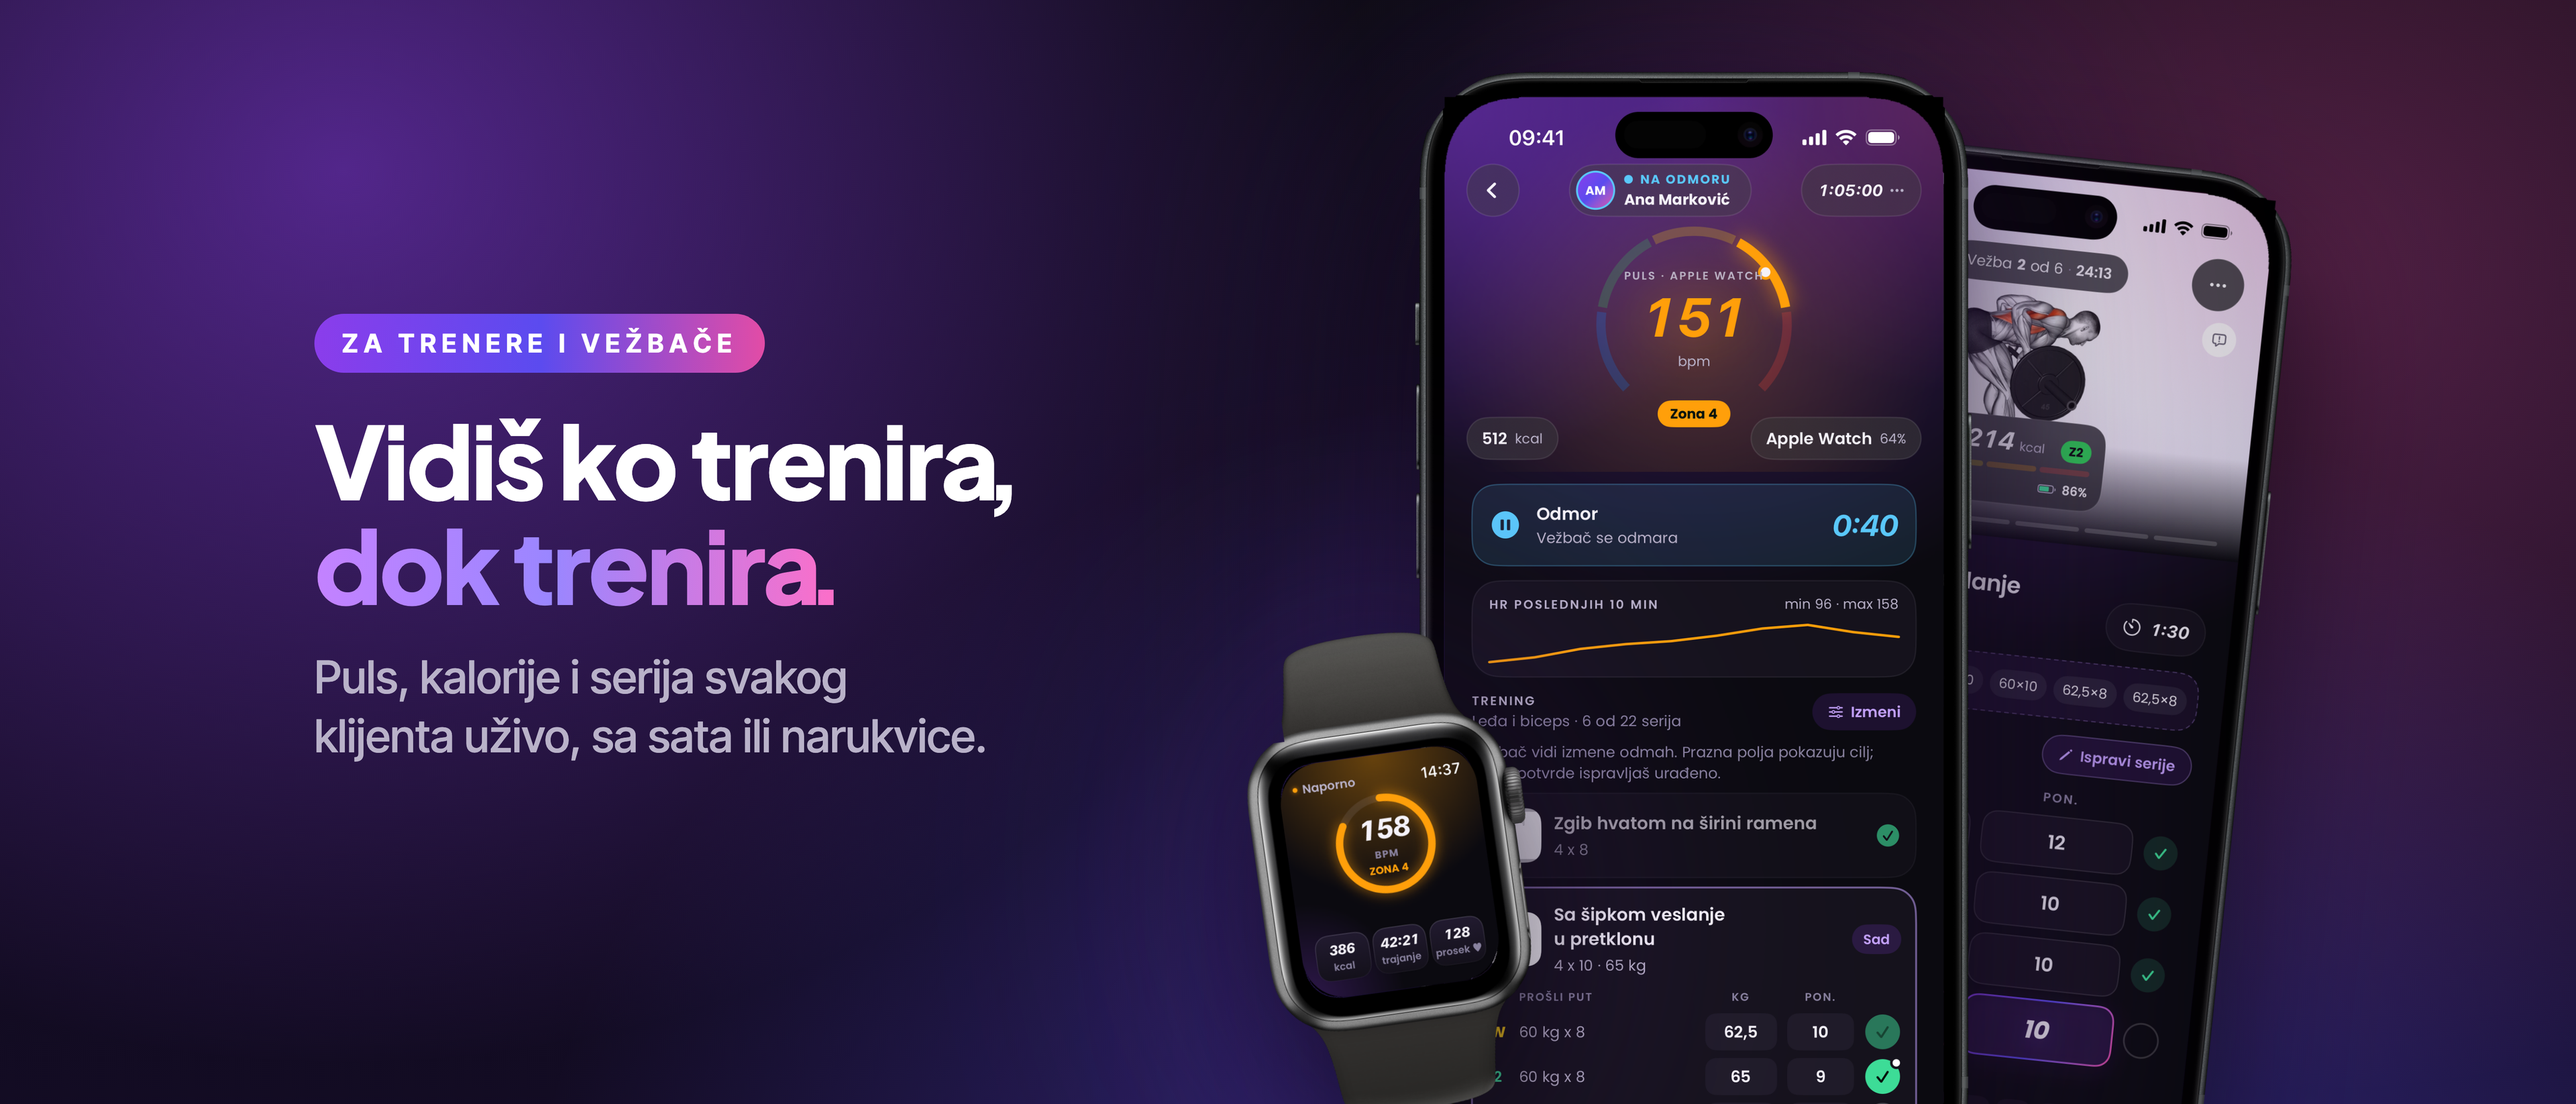
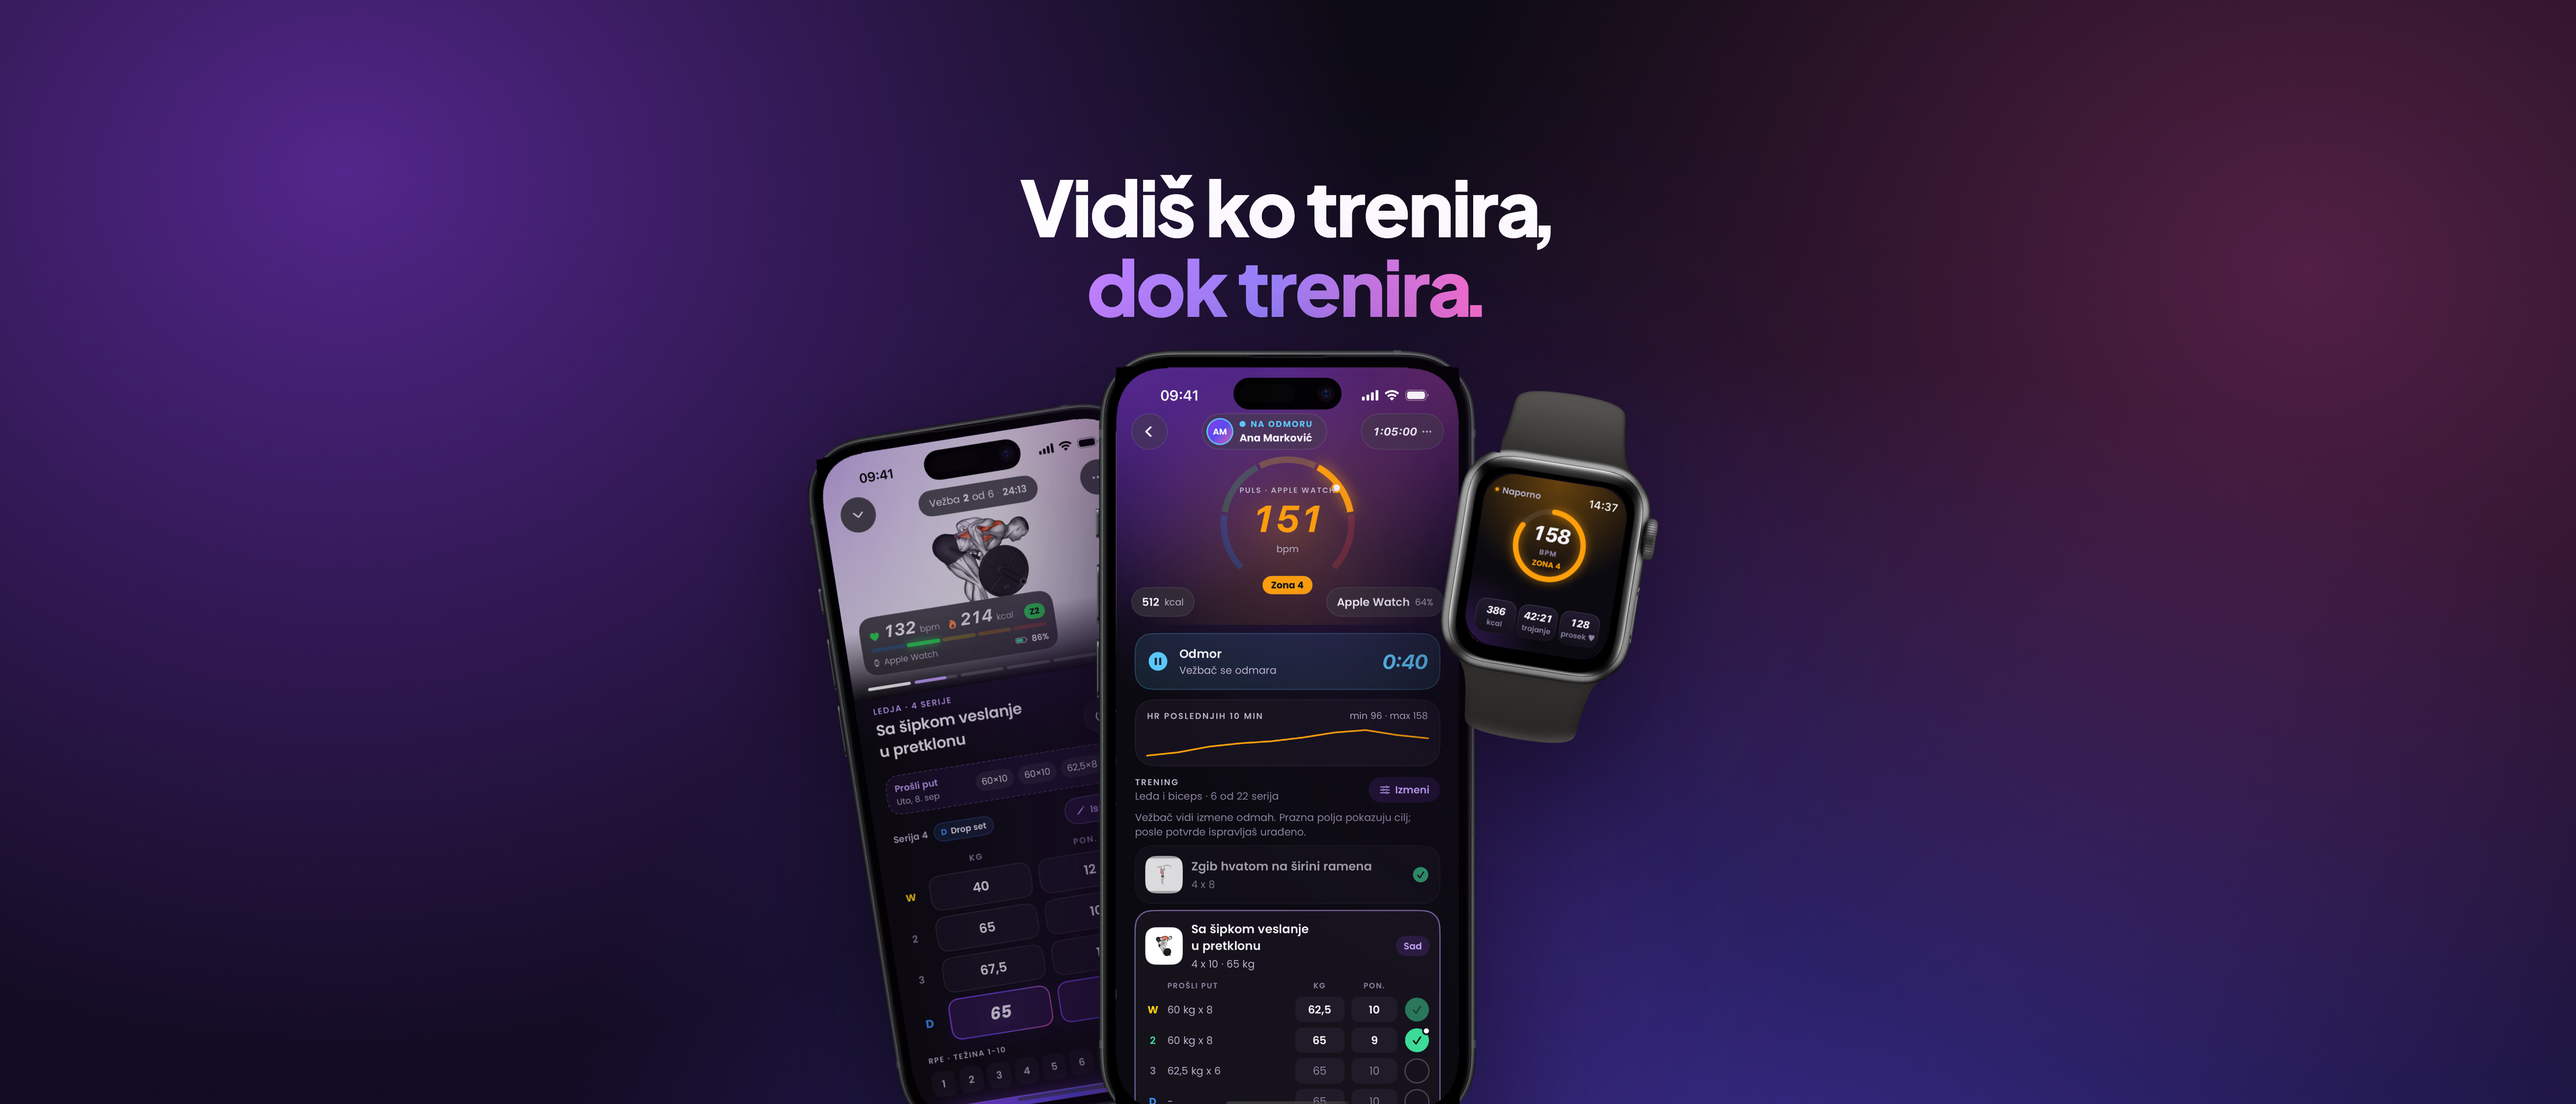
App Store header: fit Apple's universal safe area
Title and the live heart rate phone now sit inside the safe area from
Apple's universal template (x 1921-3323, y 660-1622), so nothing gets
cut on iPhone, iPad, Mac or in search results.

diff --git a/design/app-store/izvor/zaglavlje.html b/design/app-store/izvor/zaglavlje.html
@@ -16,42 +16,43 @@
       radial-gradient(2600px 2400px at 4700px 900px, rgba(226,76,166,.32), transparent 70%),
       radial-gradient(3600px 2600px at 3600px 2900px, rgba(91,75,239,.50), transparent 70%),
       linear-gradient(#0B0A10, #140C26); }
-  .tekst { position: absolute; left: 640px; top: 990px; width: 2050px; }
-  .znacka { display: inline-flex; align-items: center; height: 120px; padding: 0 56px; border-radius: 60px;
-    font-weight: 700; font-size: 52px; letter-spacing: .22em; text-transform: uppercase;
-    background: linear-gradient(90deg, #8B3DEB, #5B4BEF 50%, #E24CA6); }
-  h1 { margin-top: 70px; font-family: "Plus Jakarta Sans"; font-weight: 800; font-size: 205px;
+  /* Sigurna zona iz Apple-ovog sablona (Figma, okvir Universal): x 1921..3323, y 660..1622.
+     Samo ona se vidi svuda (iPhone, iPad, Mac, pretraga). Naslov i gornji deo telefona sa
+     pulsom su u njoj; zadnji telefon i sat su ukras i smeju da se iseku. */
+  .tekst { position: absolute; left: 0; right: 0; top: 690px; text-align: center; }
+  h1 { font-family: "Plus Jakarta Sans"; font-weight: 800; font-size: 156px;
     line-height: 1.04; letter-spacing: -.03em; white-space: nowrap; }
   h1 .z { margin-left: -.13em; }
   h1 em { font-style: normal; background: linear-gradient(90deg, #C482FF, #9A86FF 45%, #FF6EC7);
     -webkit-background-clip: text; background-clip: text; color: transparent; }
-  p { margin-top: 64px; font-size: 92px; line-height: 1.3; font-weight: 500; color: #B9B2C9; text-wrap: balance; }
   .sl { position: absolute; }
   .senka { filter: drop-shadow(0 120px 160px rgba(0,0,0,.6)) drop-shadow(0 0 300px rgba(139,61,235,.22)); }
-  .zadnji { left: 3640px; top: 640px; width: 1080px; transform: rotate(6deg); transform-origin: 50% 0;
-    filter: drop-shadow(0 120px 160px rgba(0,0,0,.6)) brightness(.86); }
-  .prednji { left: 2860px; top: 470px; width: 1180px; }
-  .sat { left: 2560px; top: 1640px; width: 560px; transform: rotate(-8deg); }
+  .zadnji { left: 1600px; top: 1190px; width: 730px; transform: rotate(-9deg); transform-origin: 50% 0;
+    filter: drop-shadow(0 90px 120px rgba(0,0,0,.6)) brightness(.78); }
+  .prednji { left: 2217px; top: 1045px; width: 810px; }
+  .sat { left: 2950px; top: 1150px; width: 410px; transform: rotate(9deg); }
+  .zona { position: absolute; left: 1921px; top: 660px; width: 1402px; height: 962px;
+    outline: 8px dashed #39FF6A; display: none; }
+  .prikazi-zonu .zona { display: block; }
   .greska { outline: 40px solid red; outline-offset: -40px; }
 </style>
 </head>
 <body>
 <div class="tekst" id="tekst">
-  <div class="znacka">Za trenere i vežbače</div>
   <h1>Vidiš ko trenira<span class="z">,</span><br><em>dok trenira<span class="z">.</span></em></h1>
-  <p>Puls, kalorije i serija svakog klijenta uživo, sa sata ili narukvice.</p>
 </div>
 <img class="sl zadnji" src="slojevi/tel-a-trening.png" alt="">
 <img class="sl prednji senka" src="slojevi/tel-t-uzivo-detalj.png" alt="">
 <img class="sl sat senka" src="slojevi/sat-prsten.png" alt="">
+<div class="zona"></div>
 <script>
-  // Provera: tekst mora biti u zoni koja ostaje posle oba isecanja.
+  // ?zona=1 crta sigurnu zonu. Provera: naslov mora ceo da stane u sigurnu zonu, inace crveni okvir.
+  if (new URLSearchParams(location.search).get("zona")) document.body.classList.add("prikazi-zonu");
   document.fonts.ready.then(() => {
-    const r = document.getElementById("tekst").getBoundingClientRect();
-    const h = document.querySelector("h1");
-    if (r.left < 409 || r.top < 351 || r.bottom > 2598 || h.scrollWidth > h.clientWidth + 1) {
-      document.body.classList.add("greska");
-    }
+    const r = document.createRange(); r.selectNodeContents(document.querySelector("h1"));
+    const b = r.getBoundingClientRect();
+    document.title = [b.left, b.right, b.top, b.bottom].map(Math.round).join(",");
+    if (b.left < 1921 || b.right > 3323 || b.top < 660 || b.bottom > 1622) document.body.classList.add("greska");
   });
 </script>
 </body>

diff --git a/design/app-store/izvor/zaglavlje_pregled.py b/design/app-store/izvor/zaglavlje_pregled.py
@@ -1,0 +1,44 @@
+"""Od snimka zaglavlje.html pravi gotove slike i pregled.
+
+python3 zaglavlje_pregled.py <cist.png> <sa-zonom.png>
+  ../zaglavlje/zaglavlje-5244x2950.png  univerzalna slika (bez alfe)
+  ../zaglavlje/zaglavlje-3840x1646.png  isecak 21:9 (samo vrh stranice)
+  ../zaglavlje/pregled-zaglavlje.png    sigurna zona + iPhone, iPad/Mac i pretraga
+"""
+import sys
+from PIL import Image, ImageDraw, ImageFont
+
+FONT = "InterTight.ttf"
+
+def font(v, b):
+    f = ImageFont.truetype(FONT, v); f.set_variation_by_name(b); return f
+
+cist = Image.open(sys.argv[1]).convert("RGB")
+zona = Image.open(sys.argv[2]).convert("RGB")
+assert cist.size == (5244, 2950)
+cist.save("../zaglavlje/zaglavlje-5244x2950.png", optimize=True)
+hdr = cist.crop((0, 351, 5244, 2598)).resize((3840, 1646), Image.LANCZOS)
+hdr.save("../zaglavlje/zaglavlje-3840x1646.png", optimize=True)
+
+# iPhone: App Store pokaze sredinu (oko 2967 px), gore dugmad, dole bela kartica sa ikonom.
+x0 = 2622 - 1483
+ip = cist.crop((x0, 0, x0 + 2967, 2950)).resize((402, 400), Image.LANCZOS).convert("RGBA")
+d = ImageDraw.Draw(ip)
+for cx in (32, 370):
+    d.ellipse([cx - 19, 52, cx + 19, 90], fill=(235, 235, 240, 220))
+d.rectangle([0, 272, 402, 400], fill=(255, 255, 255, 255))
+d.rounded_rectangle([18, 288, 92, 362], radius=18, outline=(180, 180, 190), width=2)
+d.text((108, 300), "FitLink - Trener i vežbači", font=font(20, b"SemiBold"), fill=(10, 10, 10))
+ip = ip.convert("RGB").resize((804, 800), Image.LANCZOS)
+
+F = font(30, b"Bold")
+o = Image.new("RGB", (2900, 1960), (245, 245, 247)); d = ImageDraw.Draw(o)
+d.text((20, 30), "Cela slika 5244 x 2950, zeleno = sigurna zona iz Apple šablona", font=F, fill=(20, 20, 24))
+o.paste(zona.resize((1600, 900), Image.LANCZOS), (20, 90))
+d.text((1700, 30), "iPhone (vrh stranice)", font=F, fill=(20, 20, 24)); o.paste(ip, (1700, 90))
+d.text((20, 1040), "iPad / Mac (21:9)", font=F, fill=(20, 20, 24))
+o.paste(hdr.resize((1600, 686), Image.LANCZOS), (20, 1100))
+d.text((1700, 1040), "Pretraga (3:2)", font=F, fill=(20, 20, 24))
+o.paste(cist.crop((409, 0, 4835, 2950)).resize((1140, 760), Image.LANCZOS), (1700, 1100))
+o.save("../zaglavlje/pregled-zaglavlje.png", optimize=True)
+print("ok")
